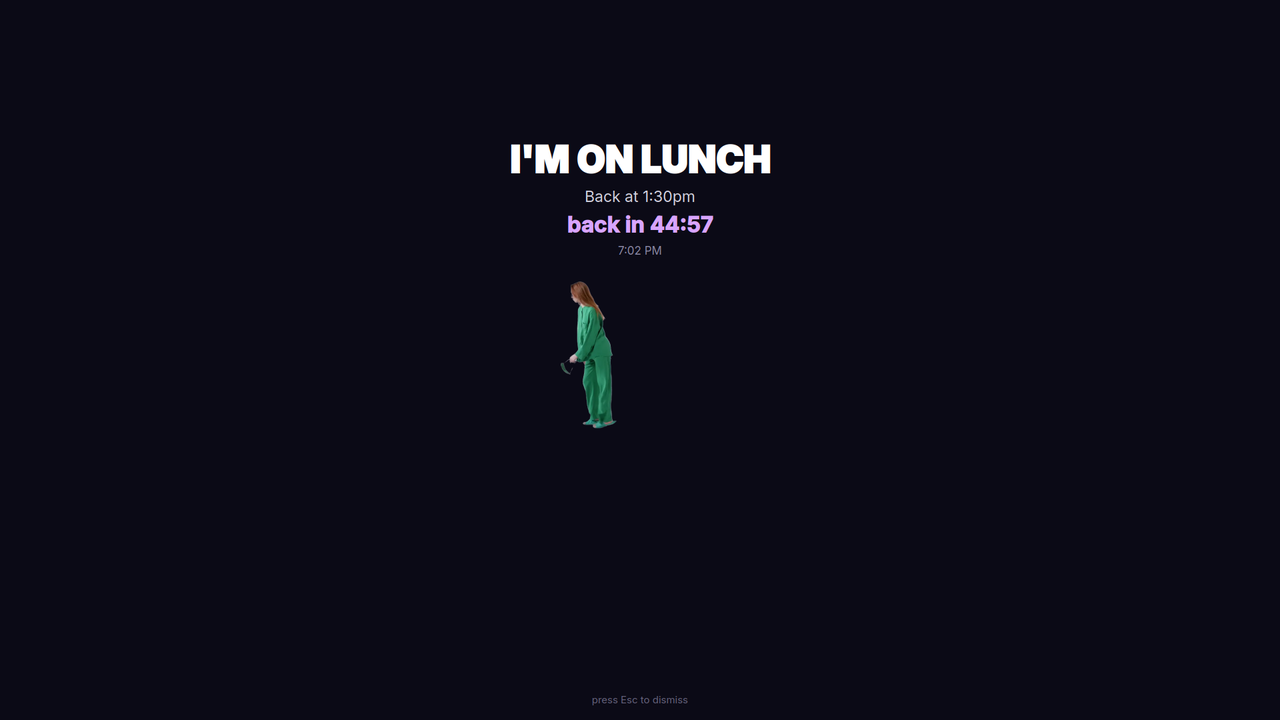
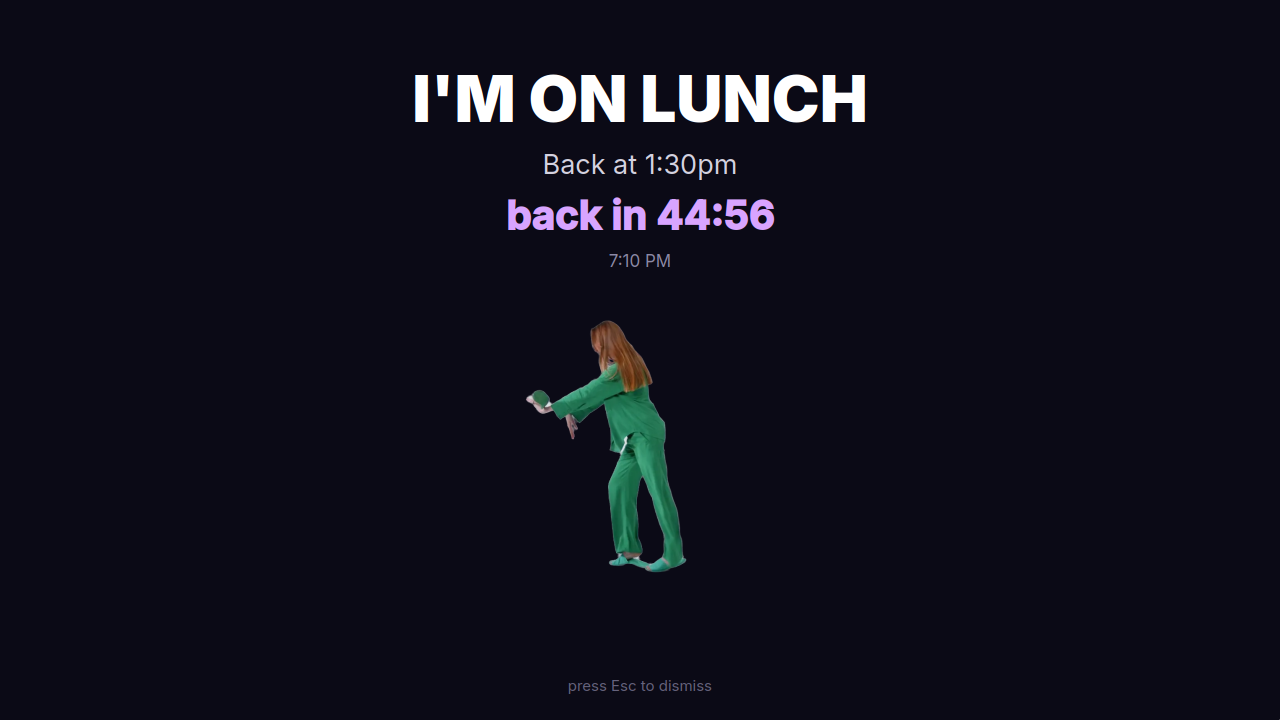
Refresh README demo GIF and lunch screenshot from clean desktop capture
Replace the synthetic editor mockup demo GIF with a live capture recorded on an empty solid-color virtual desktop showing transparent floating playback, drag, scroll resize, the right-click menu, and fullscreen lunch mode. Update assets/lunch-mode.png with a centered 720p frame and wire both assets cleanly into README.md under Demo and Fullscreen lunch mode.

Changed region(s): [[0.3125, 0.0917, 0.6875, 0.3667], [0.4062, 0.3972, 0.5312, 0.7944], [0.4375, 0.9472, 0.5625, 0.9778]]

diff --git a/README.md b/README.md
@@ -19,11 +19,10 @@
 ## Demo
 
 <p align="center">
-  <img src="assets/demo.gif" alt="desktop-dancer floating transparently over an editor and terminal" width="720" />
+  <img src="assets/demo.gif" alt="desktop-dancer live preview on a clean solid-color desktop: floating transparent dancer, drag, scroll resize, right-click menu, and fullscreen lunch mode" width="720" />
 </p>
-
 <p align="center">
-  <img src="assets/lunch-mode.png" alt="Fullscreen I'M ON LUNCH away screen with countdown timer and centered dancer" width="720" />
+  <sub>Live desktop capture: floating transparent dancer, drag to move, scroll to resize, right-click menu, and fullscreen <code>--lunch</code> mode with live countdown.</sub>
 </p>
 
 ## Quickstart
@@ -79,6 +78,10 @@ desktop-dancer --lunch "AFK" --title "BRB" --timer 0     # hide countdown
 ```
 
 You can also trigger lunch mode from the tray menu (**Go on lunch...**) or install `desktop-dancer.scr` on Windows as a native screensaver (`/s`, `/c`, `/p:HWND`). Press `Esc` (or move the mouse in `/s` mode) to dismiss.
+
+<p align="center">
+  <img src="assets/lunch-mode.png" alt="Fullscreen I'M ON LUNCH away screen with live countdown timer and centered dancer" width="720" />
+</p>
 
 ## Stack & Architecture
 

diff --git a/CHANGELOG.md b/CHANGELOG.md
@@ -8,7 +8,7 @@
 - Defaulted `--lunch` CLI mode to the 1-hour countdown timer (use `--timer 0` or `--timer off` to hide), added a message/timer/title dialog for tray lunch mode, multi-monitor backdrop coverage for screensaver `/s` mode, drag-and-drop clip swapping, Pause, Always on top, Use example dancer, and remembered window position/scale.
 - Fixed `rvm_to_webp.py` to always scale input video to the requested `w x h`, auto-select CUDA/MPS/CPU, and report ffmpeg errors cleanly instead of silently writing 0 frames.
 - Added `pyproject.toml`, `pytest` test suite, and GitHub Actions CI.
-- Moved third-party Pexels clip credit from `LICENSE` to `NOTICE` for clean MIT detection, added `assets/lunch-mode.png`, and aligned `README.md` with the project standard.
+- Moved third-party Pexels clip credit from `LICENSE` to `NOTICE` for clean MIT detection, refreshed `assets/demo.gif` and `assets/lunch-mode.png` from a clean solid-color virtual desktop capture, and aligned `README.md` with the project standard.
 
 ## 0.5.1 (2026-09-29)
 
